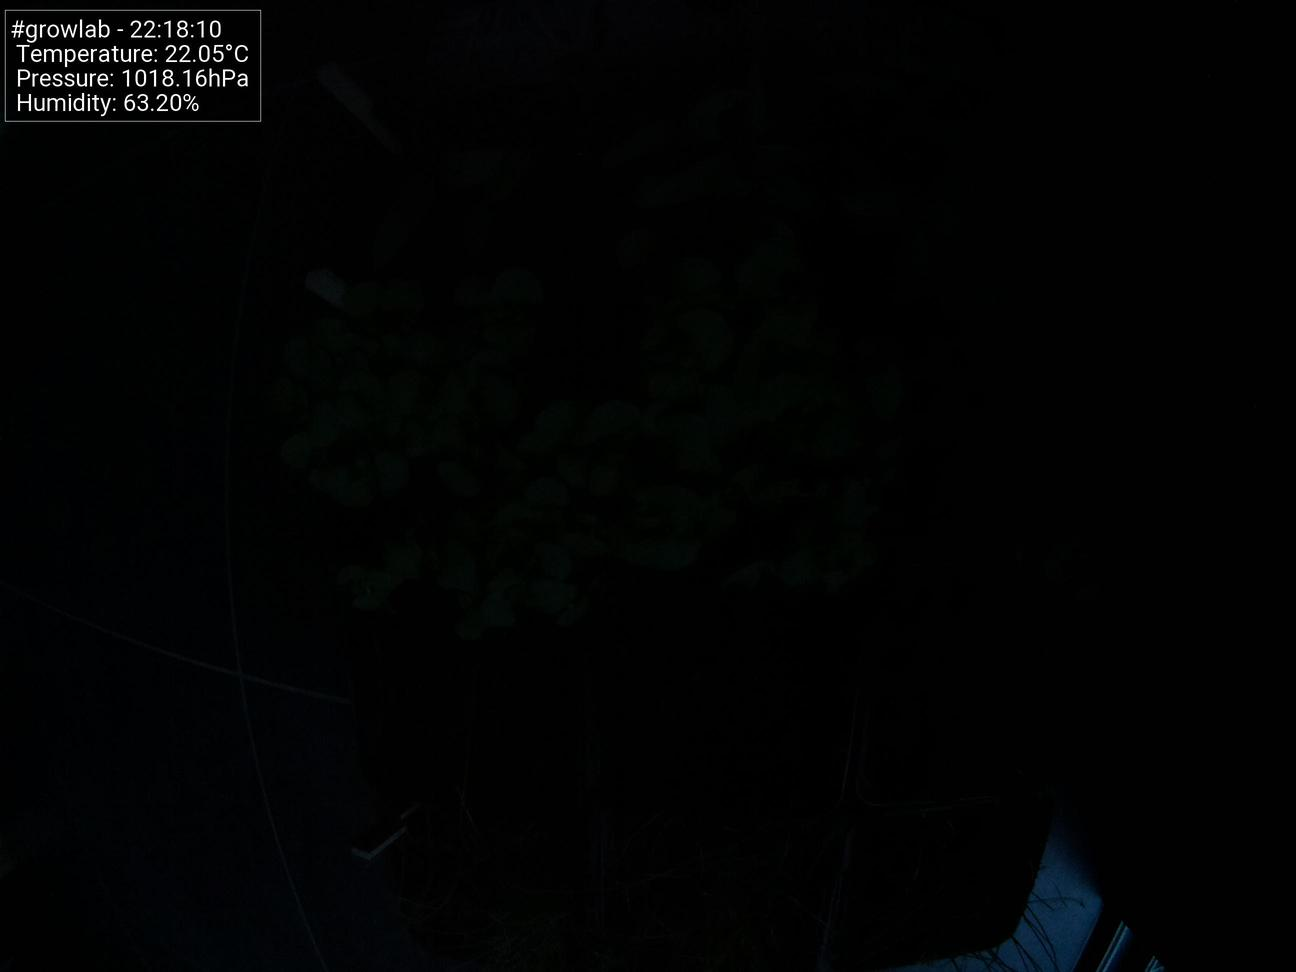
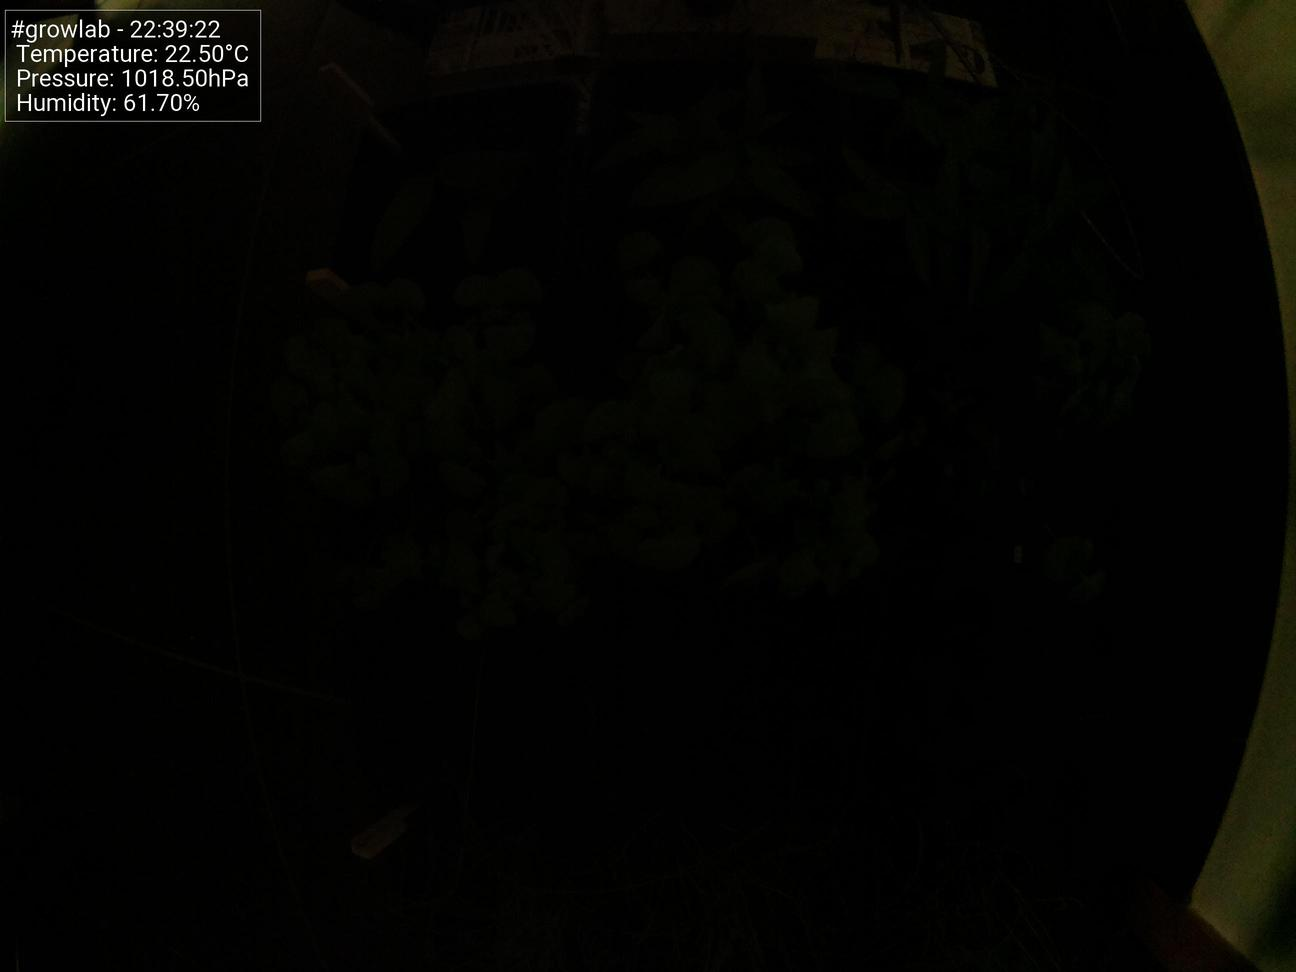
Update images at Fri 11 Jun 08:17:33 CEST 2021

diff --git a/index.html b/index.html
@@ -47,19 +47,19 @@
                         <tbody>
                             <tr>
                                 <td>Time</td>
-                                <td>22:18:10</td>
+                                <td>22:39:22</td>
                             </tr>
                             <tr>
                                 <td>Temperature</td>
-                                <td>22.05°C</td>
+                                <td>22.50°C</td>
                             </tr>
                             <tr>
                                 <td>Humidity</td>
-                                <td>63.20%</td>
+                                <td>61.70%</td>
                             </tr>
                             <tr>
                                 <td>Pressure</td>
-                                <td>1018.16hPa</td>
+                                <td>1018.50hPa</td>
                             </tr>
                         </tbody>
                     </table>
@@ -67,7 +67,7 @@
 
                 <h5>Latest image</h5>
                 <div style="width: 85%;">
-                            <img class="figure-img img-fluid rounded" src="./preview.jpg?uid=1623356298.1185534">
+                            <img class="figure-img img-fluid rounded" src="./preview.jpg?uid=1623357570.6221957">
                 </div>
             </div>
         </div>
